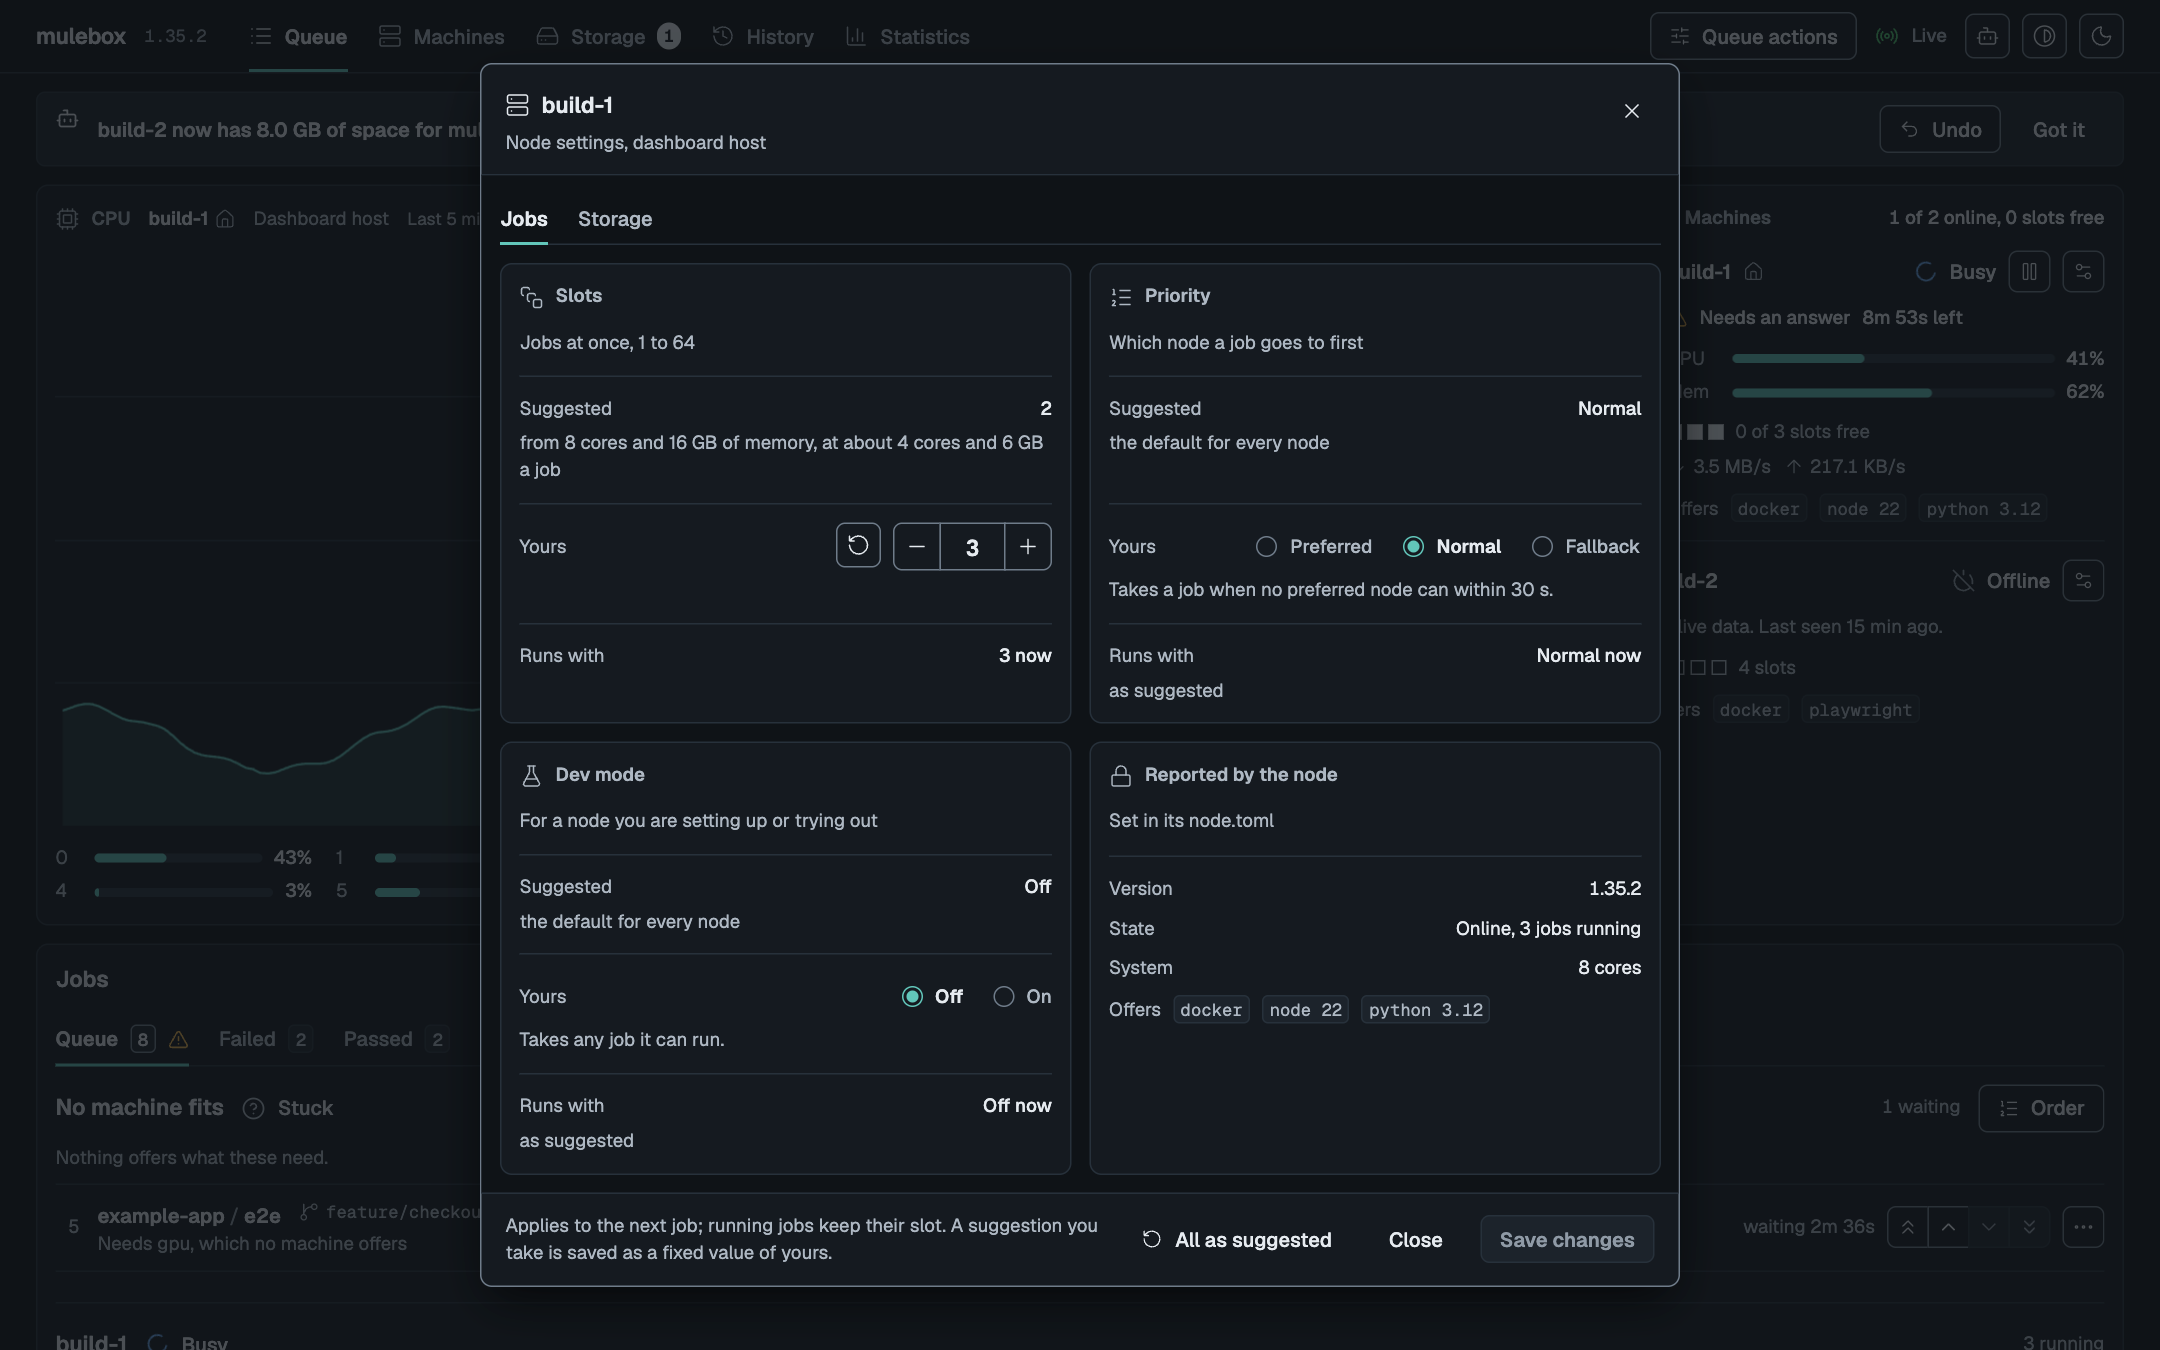
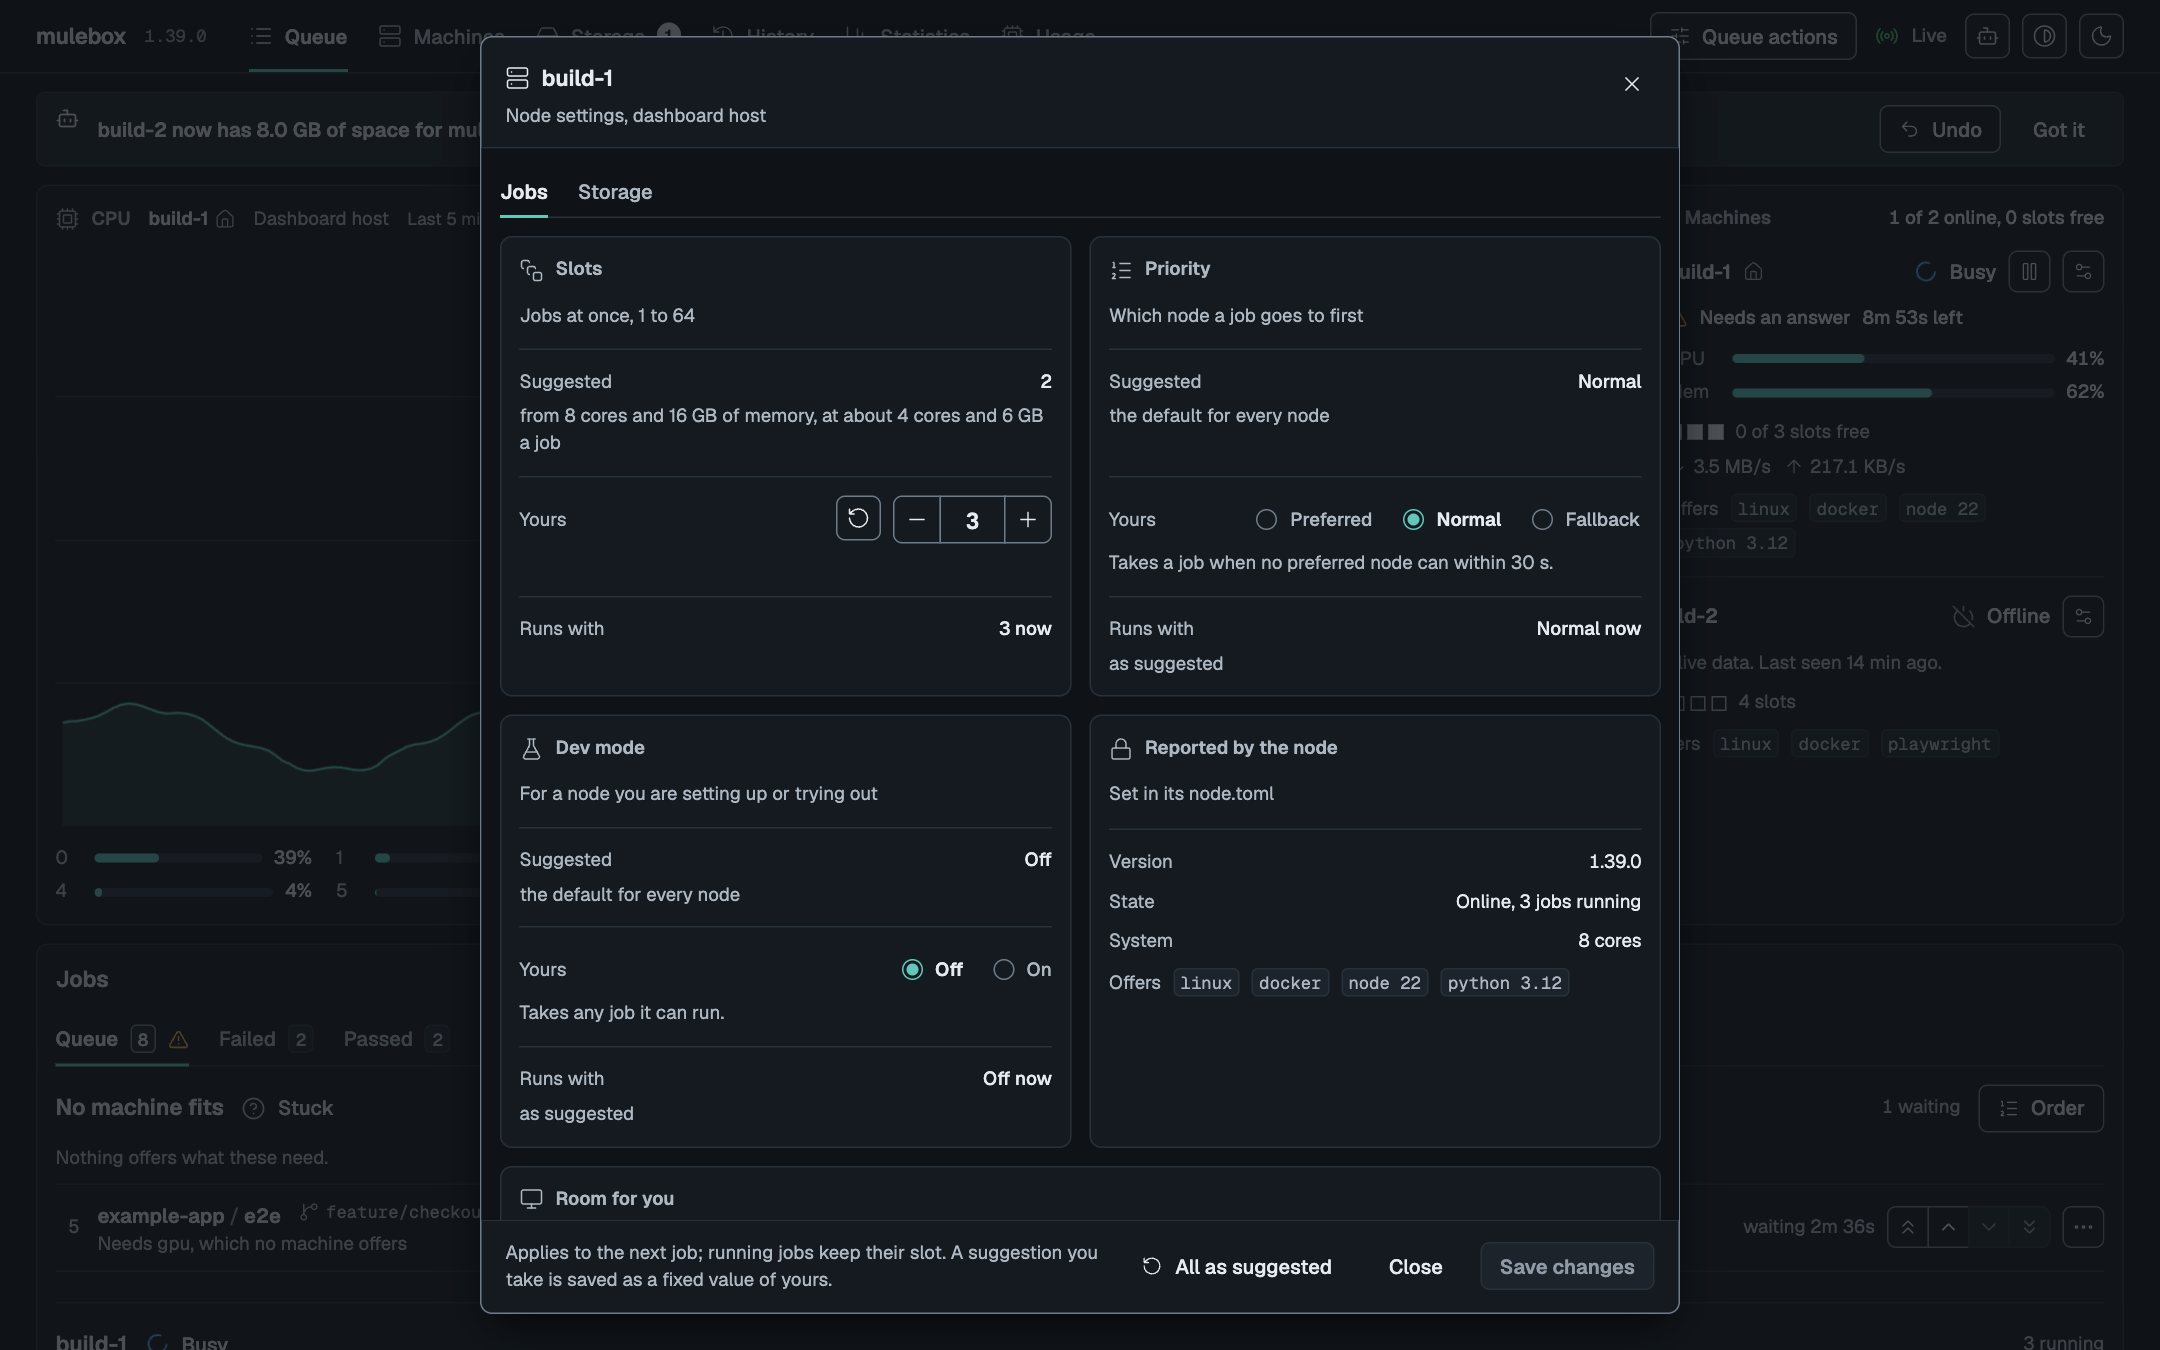
1.39.1: README on job usage and sizes, with two new pictures

diff --git a/web/dev/settings.ts b/web/dev/settings.ts
@@ -7,7 +7,10 @@ import { SETTINGS_SCENE } from "./scenes.ts";
 interface Row { name: string; slots: number; state: string; cores?: number | null; version?: string | null; jobs: unknown[] }
 const DISK = { keep_free: "10%", unused_days: 7, keep_latest: true, idle_days: 14,
                auto_clean: true, docker_clean: true, max_size: "OFF", warn_size: "50GB" };
-const DISK_KEYS = Object.keys(DISK) as (keyof typeof DISK)[];
+// Room kept for the owner (1.38): build-1, the dashboard's host, is also someone's PC.
+const ROOM = { keep_cores: 0, keep_memory: "0GB" };
+const OWNERS_PC = { keep_cores: 2, keep_memory: "4GB" };
+const DISK_KEYS = [...Object.keys(ROOM), ...Object.keys(DISK)];
 const SINCE_126 = ["auto_clean", "docker_clean", "max_size", "warn_size"];
 interface Kept { disk: Record<string, unknown>; priority: string; dev: boolean; pending: Record<string, unknown> | null; since: number | null; error: string | null; old: boolean }
 const SIZE = /^\s*(off|\d+(\.\d+)?\s*(MB|GB|TB))\s*$/i;
@@ -22,7 +25,8 @@ function of(row: Row): Kept {
   if (!found) {
     const start = scene[row.name] ?? {};
     // `pre126`: a node on 1.24 or 1.25, with the first four disk settings only.
-    const disk: Record<string, unknown> = { ...DISK, ...(start.disk as Record<string, unknown> | undefined) };
+    const disk: Record<string, unknown> = { ...(row.name === "build-1" ? OWNERS_PC : ROOM), ...DISK,
+                                            ...(start.disk as Record<string, unknown> | undefined) };
     if (start.pre126) for (const key of SINCE_126) delete disk[key];
     found = { disk, priority: "normal", dev: Boolean(start.dev), pending: (start.pending as Kept["pending"]) ?? null, since: start.pending ? Date.now() / 1000 - 40 : null,
               error: (start.error as string) ?? null, old: Boolean(start.old) };
@@ -47,7 +51,8 @@ function view(row: Row, editable: boolean) {
     pending: has.pending, pending_since: has.since, error: has.pending ? has.error : null,
     suggested: { slots: Math.max(1, Math.min(Math.floor(cores / 4), Math.floor(memory / 6))),
                  reason: `${cores} cores and ${memory} GB of memory, at about 4 cores and 6 GB a job` },
-    choices: { slots: { min: 1, max: 64 }, priority: PRIORITIES, dev: [false, true], keep_free: { max_share: 90 },
+    choices: { slots: { min: 1, max: 64 }, priority: PRIORITIES, dev: [false, true],
+               keep_cores: { min: 0, max: cores }, keep_memory: { max_gb: memory }, keep_free: { max_share: 90 },
                unused_days: { min: 1, max: 365 }, keep_latest: [false, true], idle_days: { min: 1, max: 365 } },
     defaults: DISK, editable,
   };

diff --git a/tools/screenshots.py b/tools/screenshots.py
@@ -59,6 +59,13 @@ SHOTS = [
     Shot("phone-dark", "#/", width=390, height=844, env=CLEAN),
     Shot("node-settings-dark", "#/", env=CLEAN,
          script="document.querySelector('[aria-label=\"Settings of build-1\"]').click()"),
+    Shot("owner-room-light", "#/", "light", height=1300, env=CLEAN,
+         script="(async () => { document.querySelector('[aria-label=\"Settings of build-1\"]').click();"
+                " await new Promise(r => setTimeout(r, 1200));"
+                " document.querySelector('section[aria-label=\"Room for you\"]').scrollIntoView({block: 'center'}); })()"),
+    Shot("usage-dark", "#/usage", height=900, env=CLEAN,
+         script="[...document.querySelectorAll('h1,h2,h3')].find(h => h.textContent.trim() === 'Usage')"
+                "?.scrollIntoView(); window.scrollBy(0, -76)"),
     Shot("order-light", "#/", "light", height=1700, env={**CLEAN, "MULEBOX_MOCK_SCENE": "order"},
          script="[...document.querySelectorAll('button')].find(b => b.textContent.startsWith('Order')).click()"),
     Shot("downloads-dark", "#/", height=700, env={**CLEAN, "MULEBOX_MOCK_SCENE": "downloads"},

diff --git a/README.md b/README.md
@@ -262,6 +262,20 @@ underlines the runners' own summary lines in the log:
 
 ![A job that failed on fewer tests: the strip with the command to allow it, the Tests panel per runner and the underlined summary lines in its log](docs/images/tests-job-dark.png)
 
+### What jobs really use, and job sizes
+
+Every job and GitHub run keeps its peak cores (its busiest 10 s) and memory, with the stage they
+came in. The Usage page (and `mulebox usage`) shows each job's usual and highest peak on its node's
+own scale, and the size that would have fitted every run:
+
+![The Usage page: per node, each job's usual and highest peak of cores and memory as bars, and the size that fits every run](docs/images/usage-dark.png)
+
+That size can go into `.mulebox.yml` as `size: {cores: 4, memory: 6GB}`, so a node fits jobs by
+the cores and memory they need instead of one per slot. A node that is also your PC keeps room for
+you, set in the Room for you panel of its settings window or with `mulebox machine config`:
+
+![A node's settings window: Room for you, with the cores and memory kept for the owner and what jobs with a size share](docs/images/owner-room-light.png)
+
 All pictures come from made-up data (`tools/screenshots.py`).
 
 ### Open it from your phone, with a password
@@ -425,7 +439,9 @@ From the CLI or the dashboard, with no sign-in needed through the tunnel:
   it. Set its slots and priority from the dashboard or `mulebox machine config`, beside a
   suggestion from its cores and memory; the change reaches its `node.toml` and counts from the
   next job, with no restart. A `preferred` node takes jobs first, a `fallback` one only when the
-  others are full. Dev mode keeps a node you are trying out away from your projects' jobs.
+  others are full. Dev mode keeps a node you are trying out away from your projects' jobs. Keep
+  cores and memory for yourself on a node that is also your PC: jobs that declare a size share
+  only the rest.
 - **A project**: pause all its jobs and CI runs, for a set time or until resumed (`mulebox project
   pause`), or give it a level in line (`mulebox project priority`).
 - **Everything at once**: the dashboard's Queue actions pause or resume every machine, and freeze or
@@ -454,7 +470,9 @@ From the CLI or the dashboard, with no sign-in needed through the tunnel:
 - **History** with search and filters you can share as a link, and **Statistics**: job minutes today,
   by day and since the first job, by kind, project, source and machine (also `mulebox stats`).
 - **Machines page**: every node with its state, load, network, slots, version and last contact,
-  and a settings window per node for its slots, priority, dev mode and disk rules.
+  and a settings window per node for its slots, priority, dev mode, room kept for you and disk rules.
+- **Usage page**: each job's usual and highest peak of cores and memory, on its node's scale, and
+  the size that fits every run; on a job's page, each peak under the stage it came in.
 - **Storage page**: what mulebox holds on each node and what goes when, the automatic cleanup with
   Run now, the history of every cleanup, and the settings history: every change of a node's
   setting with who asked and who confirmed, and Undo.

diff --git a/PROJECT_LOG.md b/PROJECT_LOG.md
@@ -8,6 +8,9 @@ Entry format:
     ## <version> - <YYYY-MM-DD> - <patch|minor|major>
     - what changed and why (one line each)
 
+## 1.39.1 - 2026-11-25 - patch
+- README: a section on what jobs really use and job sizes, with two new pictures, the Usage page (`usage-dark.png`) and the Room for you panel (`owner-room-light.png`); the Machines and Usage pages and the owner's room in the feature lists. `node-settings-dark.png` taken again. The stand-in data gives build-1, the dashboard's host, 2 cores and 4 GB kept for its owner (web/dev/settings.ts), and tools/screenshots.py takes the two new pictures.
+
 ## 1.39.0 - 2026-11-25 - minor
 - The node settings window shows and sets the room a node keeps for its owner: a "Room for you" panel on the Jobs tab (option A of design-system/owner-room/, Fable's pick, taken by the user), with "Cores kept" and "Memory kept", each with Suggested (nothing kept), Yours (whole cores, whole GB, and what jobs with a size share) and Runs with, unsaved and pending like every setting (web/src/features/machines/OwnerRoom.tsx). Shown only for a node that reports `keep_cores` (1.38 and later). The window's `choices` give `keep_memory.max_gb`, the node's memory in whole GB. With component tests; the mockups are kept in docs/design-system/owner-room/.
 
